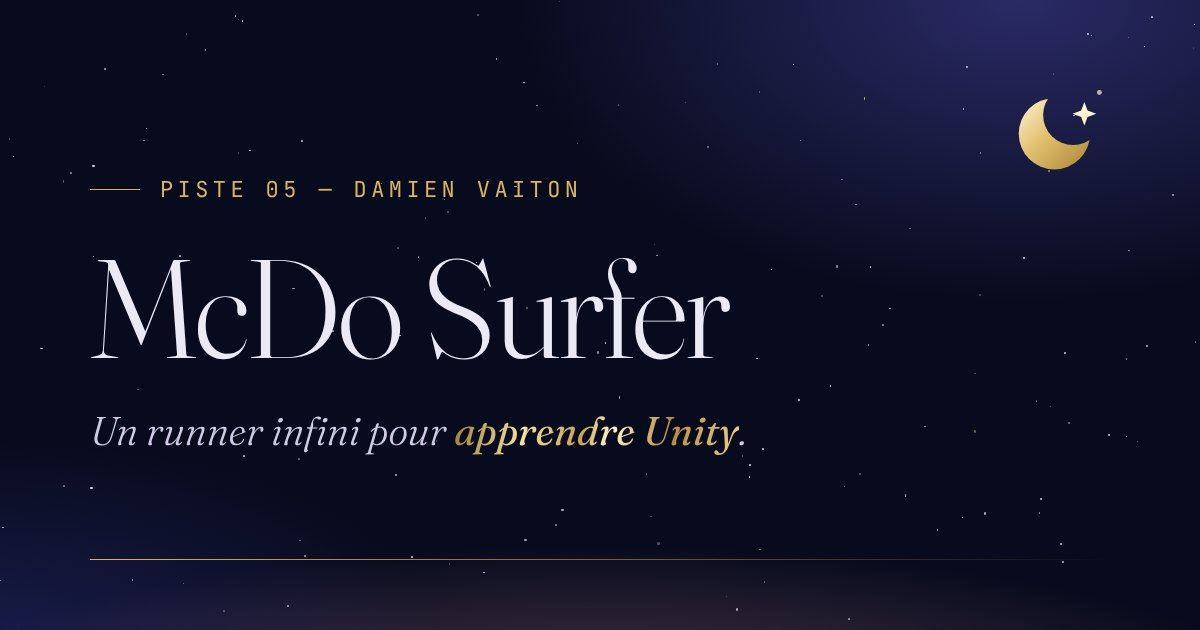
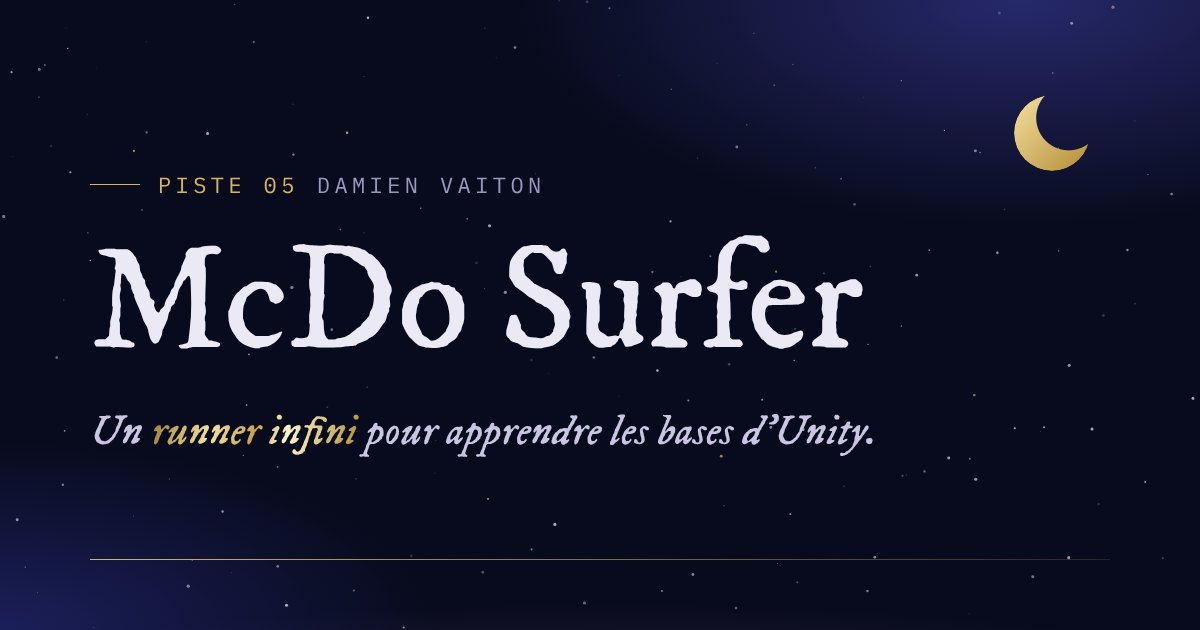
IndexNow : seulement les pages modifiées ; images d'aperçu aux nouvelles polices
- L'action ne prévient Bing que si une page du portfolio a changé depuis la
  publication précédente (un push sur edt/ ou starac/ n'envoie plus rien) ;
  une modification de assets/ ou du sitemap envoie toutes les pages
- Images de partage (og:image) refaites en IM Fell DW Pica et IBM Plex Mono

Claude-Session: https://claude.ai/code/session_01C3dHuoAtstCTfMuZ6kcJwM

diff --git a/Readme.md b/Readme.md
@@ -23,7 +23,7 @@ poussé sur `main` est publié tel quel.
 | `tools/build-en.py` | Génère `en/` et `sitemap.xml` à partir des pages françaises |
 | `edt/` | Application séparée, à ne pas modifier et non indexée (voir `robots.txt`) |
 | `robots.txt`, `sitemap.xml` | Référencement |
-| `.github/workflows/indexnow.yml` | Envoie les URL du sitemap à IndexNow (Bing…) après chaque publication |
+| `.github/workflows/indexnow.yml`, `.github/indexnow.sh` | Après chaque publication, envoie à IndexNow (Bing…) les pages du portfolio qui ont changé (rien pour edt/ ou starac/) |
 | `llms.txt`, `llms-full.txt` | Présentation du site pour les assistants IA |
 
 ## Modifier un texte
